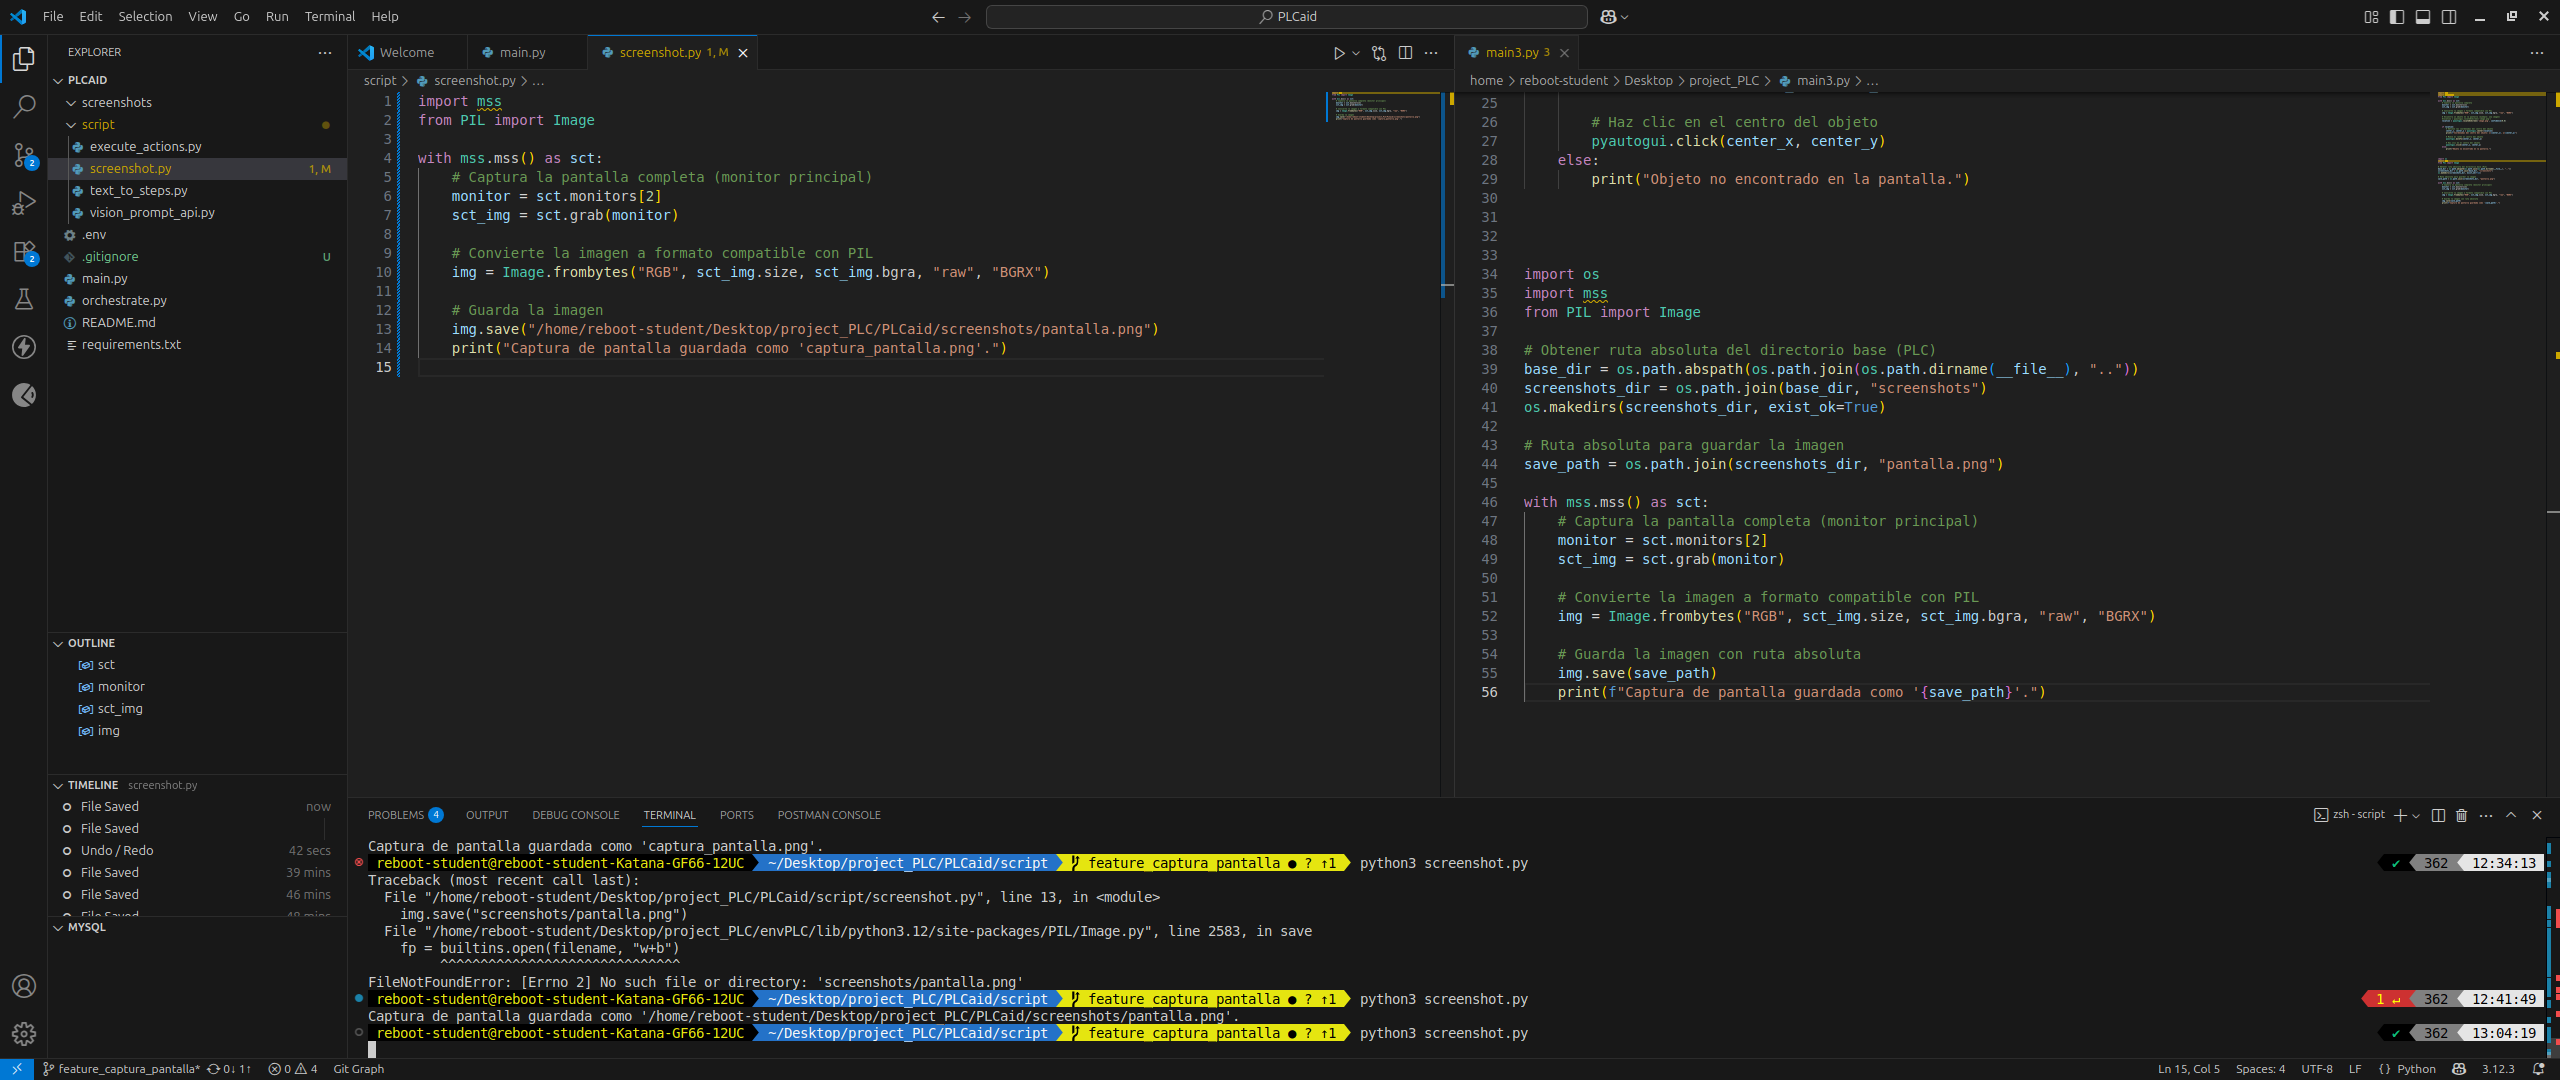
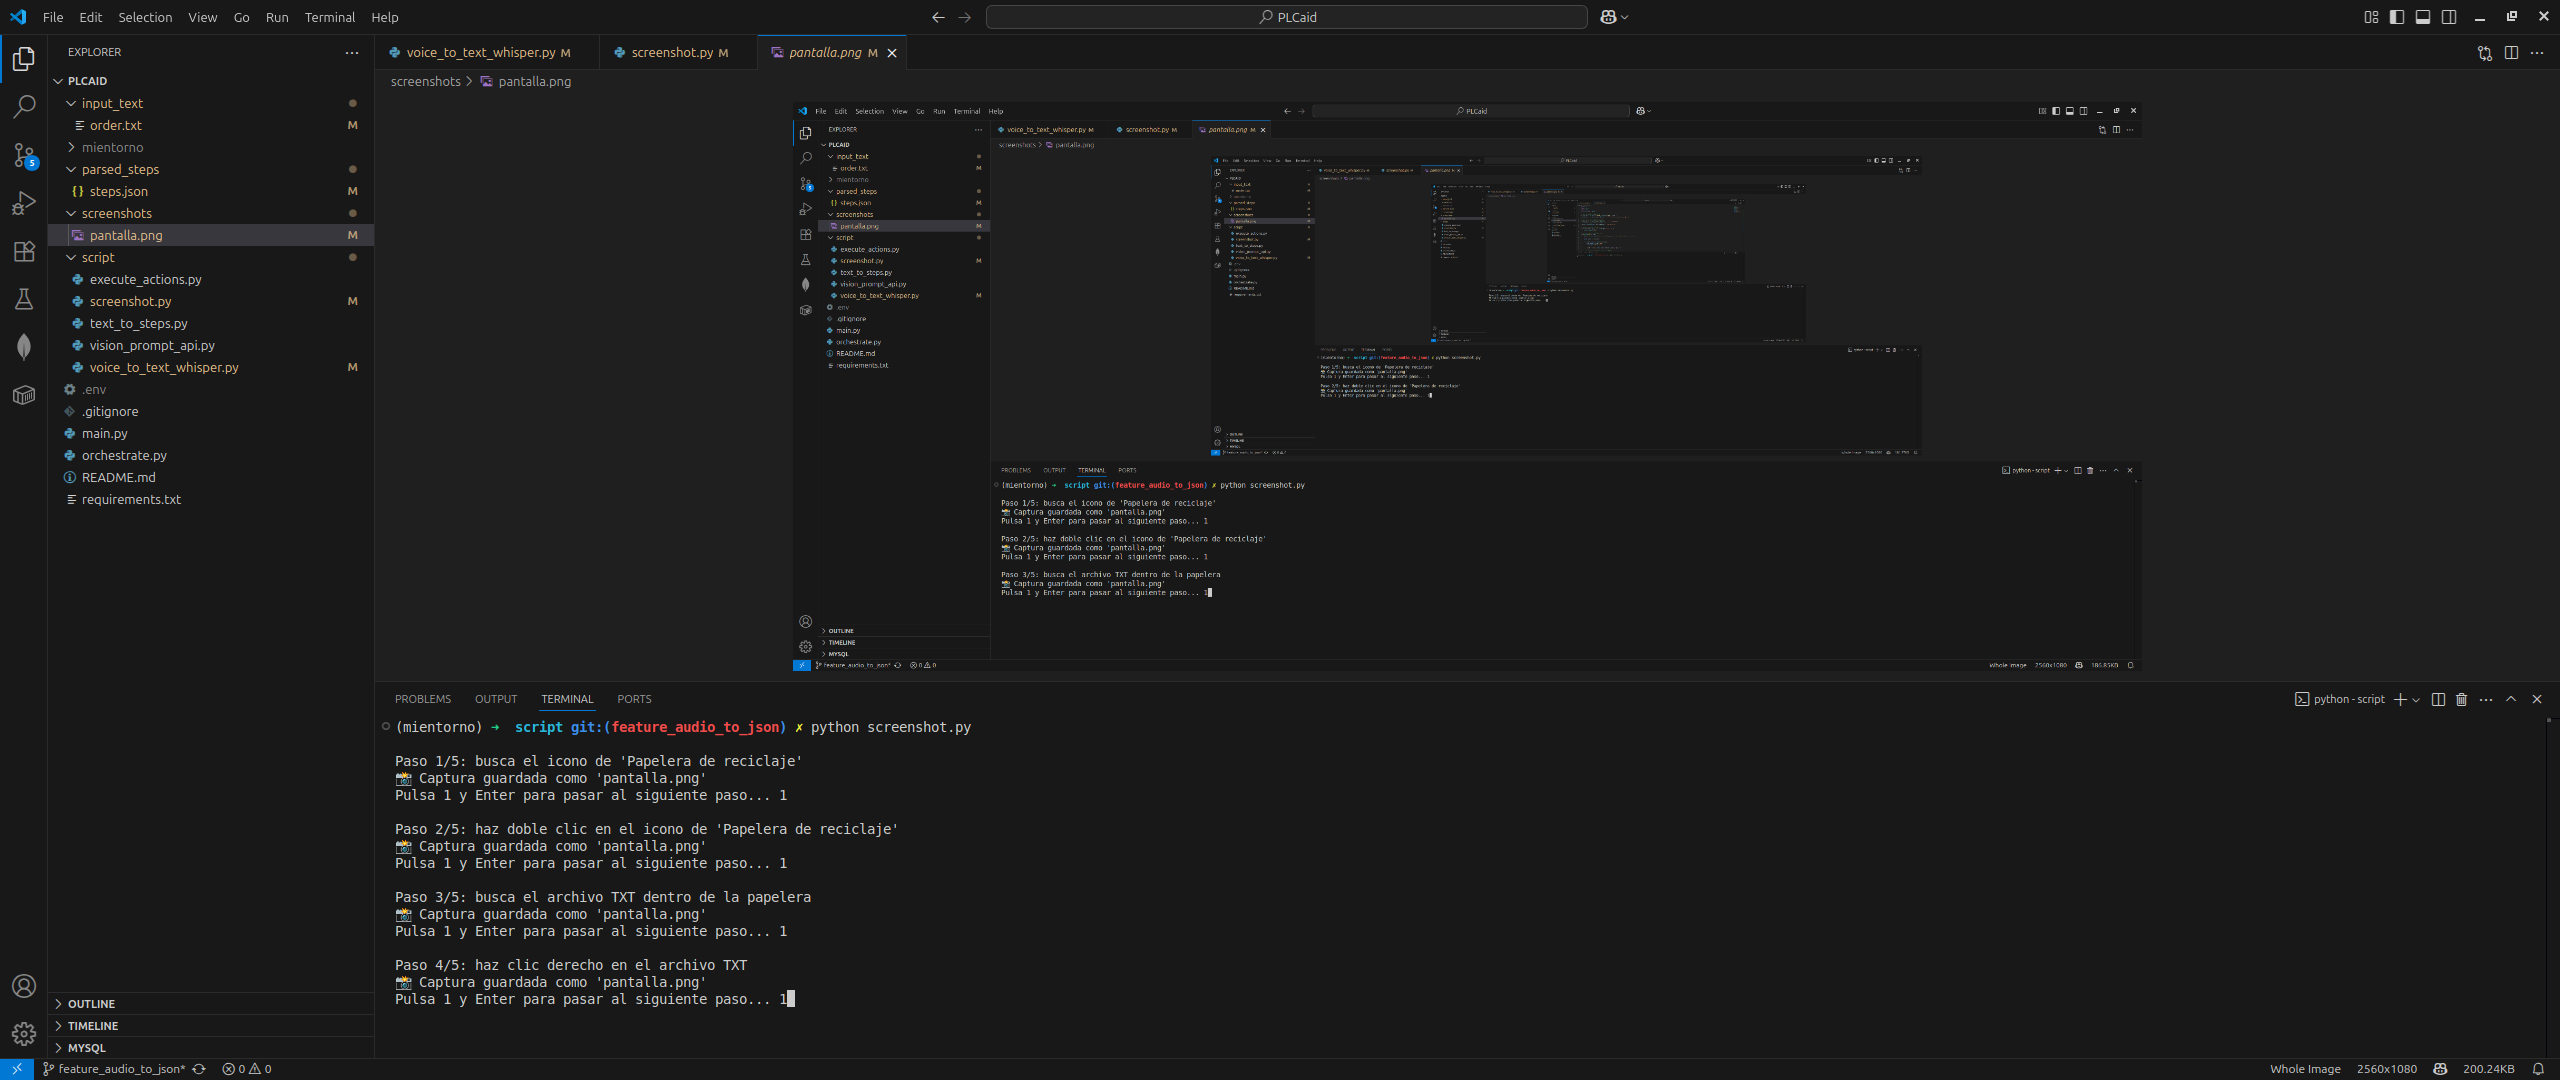
Archivo 'voice_to_text_whisper.py' reparado y trabajando en archivo 'screenshot.py'

diff --git a/script/voice_to_text_whisper.py b/script/voice_to_text_whisper.py
@@ -15,7 +15,12 @@ import tempfile # Para crear archivos temporales
 from dotenv import load_dotenv
 load_dotenv()
 
-def transcribe_voice_input_whisper_direct_pyaudio(output_dir="../input_text/", language="es"):
+# Define el directorio por defecto para guardar las transcripciones
+script_dir = os.path.dirname(os.path.abspath(__file__))
+default_output_dir = os.path.join(script_dir, "..", "input_text")
+
+
+def transcribe_voice_input_whisper_direct_pyaudio(output_dir=default_output_dir, language="es"):
     """
     Captura audio del micrófono directamente con PyAudio, lo transcribe a texto
     usando OpenAI Whisper API, guarda la transcripción en un único archivo .txt
@@ -23,7 +28,7 @@ def transcribe_voice_input_whisper_direct_pyaudio(output_dir="../input_text/", l
 
     Args:
         output_dir (str): Directorio donde se guardará el archivo de texto transcrito.
-                          Por defecto, 'input/text_orders/'.
+                          
         language (str): Idioma para la transcripción (ej. 'es' para español, 'en' para inglés).
                         Nota: Whisper usa códigos de idioma ISO-639-1 (ej. 'es', 'en').
     """
@@ -121,8 +126,8 @@ def transcribe_voice_input_whisper_direct_pyaudio(output_dir="../input_text/", l
 
 if __name__ == "__main__":
     parser = argparse.ArgumentParser(description="Prototipo de entrada de voz a texto usando OpenAI Whisper API para PLCaid.")
-    parser.add_argument("--output_dir", type=str, default="../input_text/",
-                        help="Directorio donde se guardarán las transcripciones de texto.")
+    parser.add_argument("--output_dir", type=str, default=default_output_dir,
+        help="Directorio donde se guardarán las transcripciones de texto.")
     parser.add_argument("--lang", type=str, default="es",
                         help="Idioma para la transcripción (código ISO-639-1, ej. 'es', 'en').")
 

diff --git a/script/screenshot.py b/script/screenshot.py
@@ -1,15 +1,41 @@
+import os
+import json
 import mss
 from PIL import Image
 
+# Ruta al archivo steps.json
+script_dir = os.path.dirname(os.path.abspath(__file__))
+steps_path = os.path.join(script_dir, "..", "parsed_steps", "steps.json")
+
+# Directorio para guardar la captura
+output_dir = os.path.join(script_dir, "..", "screenshots")
+os.makedirs(output_dir, exist_ok=True)
+output_file = os.path.join(output_dir, "pantalla.png")
+
+# Cargar pasos desde steps.json
+with open(steps_path, "r", encoding="utf-8") as f:
+    steps = json.load(f)
+
+# Iniciar capturas por cada paso
 with mss.mss() as sct:
-    # Captura la pantalla completa (monitor principal)
-    monitor = sct.monitors[2]
-    sct_img = sct.grab(monitor)
+    monitor = sct.monitors[2]  # Usa el segundo monitor. Cambia a [1] si es solo uno.
 
-    # Convierte la imagen a formato compatible con PIL
-    img = Image.frombytes("RGB", sct_img.size, sct_img.bgra, "raw", "BGRX")
+    total_steps = len(steps)
 
-    # Guarda la imagen
-    img.save("/home/reboot-student/Desktop/project_PLC/PLCaid/screenshots/pantalla.png")
-    print("Captura de pantalla guardada como 'pantalla.png'.")
-    
+    for index, step in enumerate(steps):
+        step_number = step["step"]
+        action = step["action"]
+
+        print(f"\nPaso {step_number}/{total_steps}: {action}")
+
+        # Captura automática al mostrar el paso
+        sct_img = sct.grab(monitor)
+        img = Image.frombytes("RGB", sct_img.size, sct_img.bgra, "raw", "BGRX")
+        img.save(output_file)
+        print(f"📸 Captura guardada como 'pantalla.png'")
+
+        # Si no es el último paso, espera al usuario para continuar
+        if index < total_steps - 1:
+            input("Pulsa 1 y Enter para pasar al siguiente paso... ")
+        else:
+            print("\n✅ Todos los pasos completados. Proceso finalizado.")
